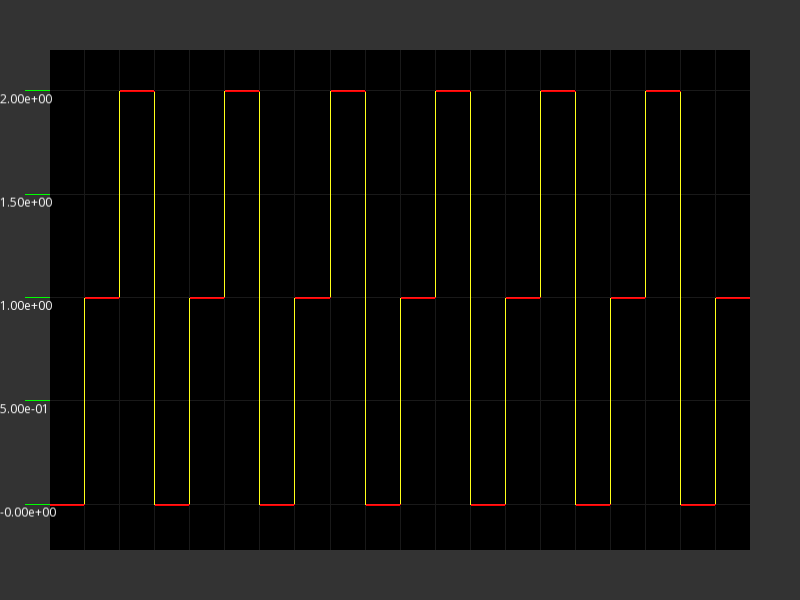
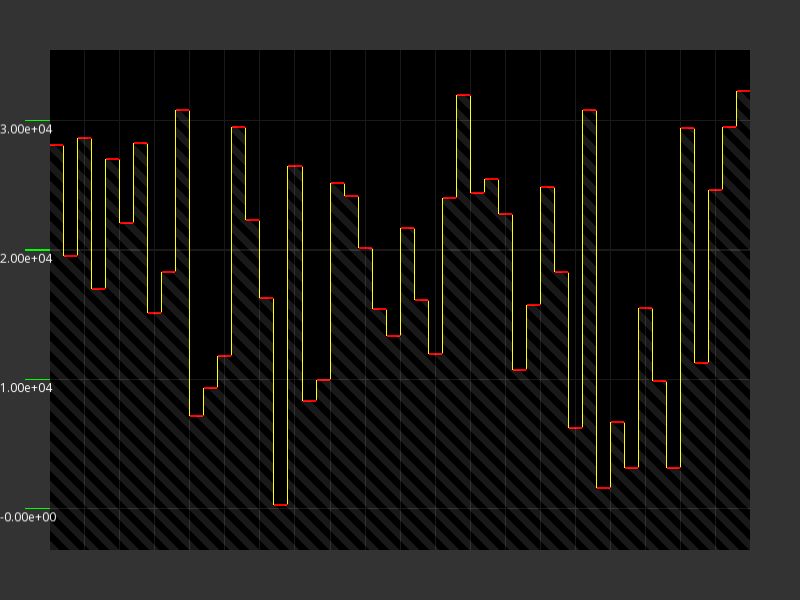
Things

diff --git a/graph_test_sfml.c b/graph_test_sfml.c
@@ -5,11 +5,16 @@
 #include <SFML/Window.h>
 
 void testFn(float * buffer, size_t size) {
+    srand(time(NULL));
+    int r = 0;
     for (int i = 0; i < size; i++) {
+        if (i % 20 == 0) 
+            r = rand();
         float x = (float)i / 1000.f;
         x *= 10;
         //buffer[i] = cosf(x * x) * x * x;
-        buffer[i] = (i / 50) % 3;
+        buffer[i] = r;
+        //buffer[i] = (i / 50) % 3;
     }
 }
 
